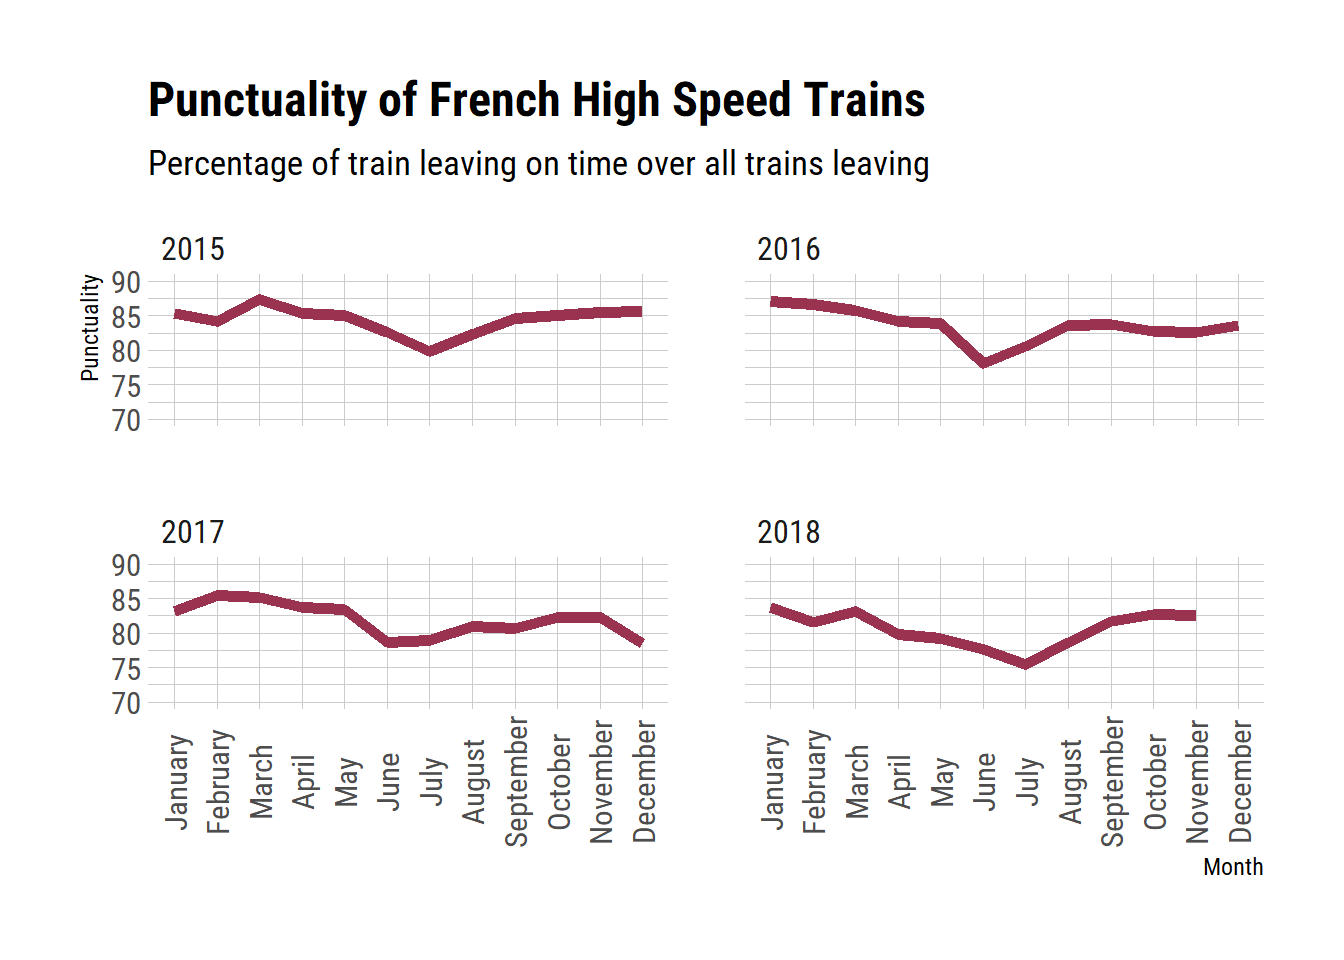
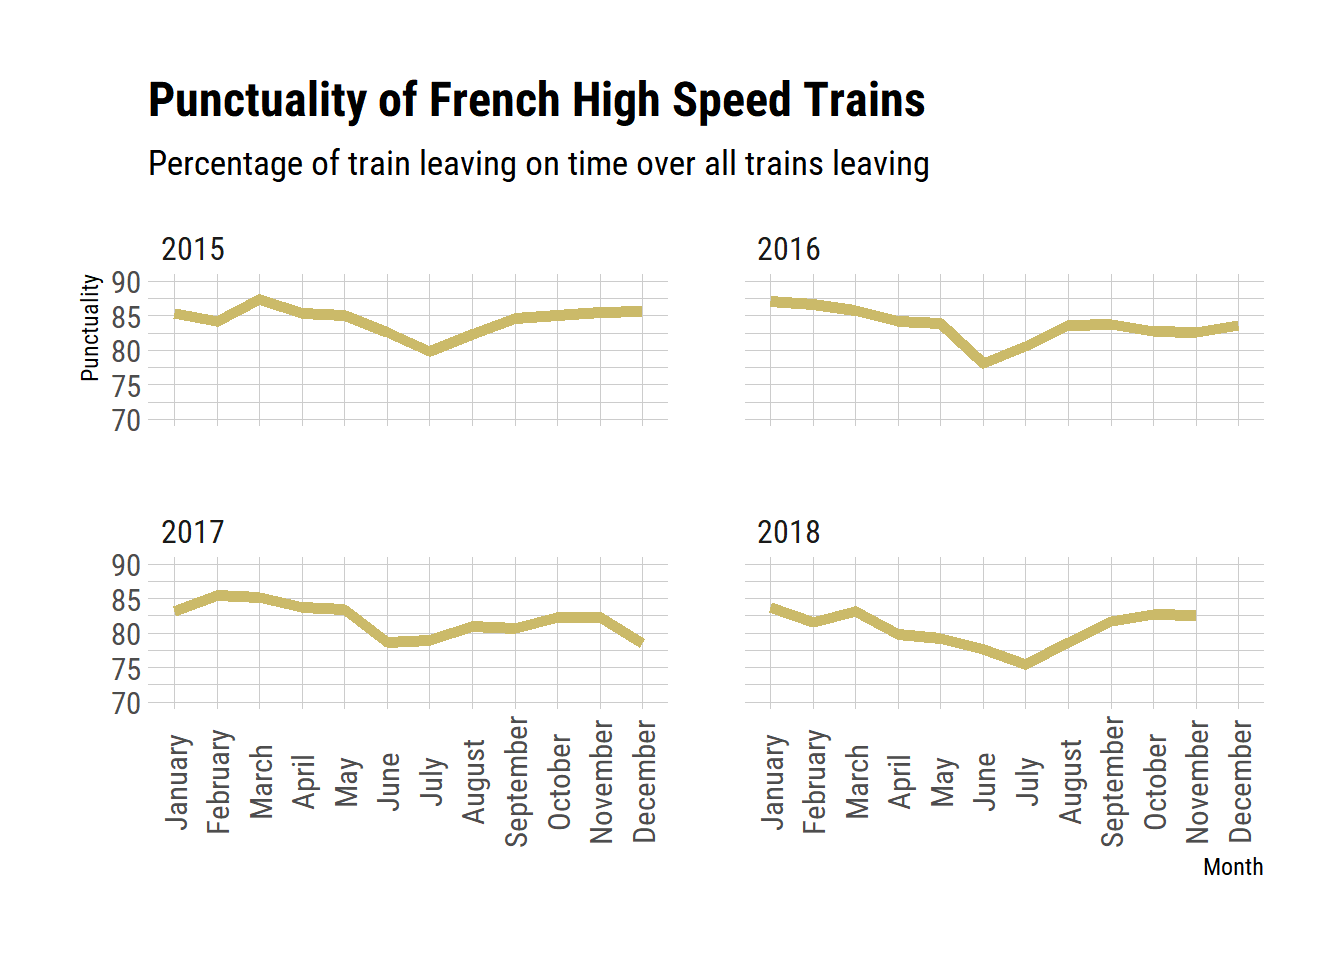
Clarify regularity explanation and improve colors of SNCF 1

diff --git a/content/content/post/2019-02-02-exploration-of-french-high-speed-trains-delays.html b/content/content/post/2019-02-02-exploration-of-french-high-speed-trains-delays.html
@@ -31,7 +31,7 @@ editor_options:
 - <code>axe</code>: which high speed line was concerned (see below for details),<br />
 - <code>month</code>: which month the data concerns,<br />
 - <code>departure_punctuality</code>: number of trains that left on time at their departure station, over all trains that left this station. Expressed in <em>percentage</em> of trains that departed <strong>that month</strong> and <strong>on this line</strong>,<br />
-- <code>composite_regularity</code>: this index is calculated by the SNCF, based on the number of delayed trains, but taking into account the length of the trip. A train is counted on-time if:<br />
+- <code>composite_regularity</code>: number of trains that arrived on time at arrival over all trains that arrived at arrival from that axe. Except that for this rate, te “on-time” criteria depends on trip lenght. A train is counted on-time if:<br />
 - for trips shorter than <strong>1h30</strong>: there is &lt;5min delay at arrival<br />
 - for trips between <strong>1h30</strong> and <strong>3h</strong>: there is &lt;10min delay at arrival<br />
 - for trips longer than <strong>3h</strong>: there is &lt;15min delay at arrival</p>
@@ -109,8 +109,7 @@ levels(tgv_axes$month_english) &lt;- c(&quot;January&quot;, &quot;February&quot;
   ggplot(aes(x = month_english, y = departure_punctuality,
              group = year)) +
   stat_summary(fun.y = mean, geom = &quot;line&quot;,
-               size = 2, colour = &quot;#993350&quot;) +
-  #geom_line(size = 2, color = &quot;#993350&quot;) +
+               size = 2, colour = &quot;#CBBA69FF&quot;) +
   facet_wrap(~year, nrow = 2) +
   labs(title = &quot;Punctuality of French High Speed Trains&quot;,
        subtitle = &quot;Percentage of train leaving on time over all trains leaving&quot;,
@@ -118,7 +117,8 @@ levels(tgv_axes$month_english) &lt;- c(&quot;January&quot;, &quot;February&quot;
        y = &quot;Punctuality&quot;) +
   theme_ipsum_rc() +
   ylim(70, 90) +
-  theme(axis.text.x = element_text(angle = 90, vjust = 0.5))</code></pre>
+  theme(axis.text.x = element_text(angle = 90, vjust = 0.5)) +
+  scale_colour_viridis_c()</code></pre>
 <p><img src="/content/post/2019-02-02-exploration-of-french-high-speed-trains-delays_files/figure-html/unnamed-chunk-3-1.png" width="672" /></p>
 <p>For some reason there is a peak of delay in June or July every year. Is this because a lot of people leave on holidays at this period? But then I would expect lots of problems in August or December, and these months do not seem to be much affected.</p>
 <p>Since time data is often readily plotted with heat-maps, I use the <code>geom_tile</code> geom from the <code>ggplot2</code> package to plot the punctuality over time</p>
@@ -144,10 +144,10 @@ levels(tgv_axes$month_english) &lt;- c(&quot;January&quot;, &quot;February&quot;
   ggplot(aes(x = month_english, group = year)) +
   stat_summary(aes(y = composite_regularity),
                fun.y = mean, geom = &quot;line&quot;,
-               size = 2, color = &quot;#90A437&quot;) +
+               size = 2, color = &quot;#31446BFF&quot;) +
   stat_summary(aes(y = departure_punctuality),
                fun.y = mean, geom = &quot;line&quot;,
-               size = 2, color = &quot;#993350&quot;) +
+               size = 2, color = &quot;#CBBA69FF&quot;) +
   facet_wrap(~year, nrow = 2) +
   labs(title = &quot;Regularity and punctuality of French High Speed Trains&quot;,
        subtitle = &quot;Green = regularity\nRed = punctuality&quot;,
@@ -159,7 +159,7 @@ levels(tgv_axes$month_english) &lt;- c(&quot;January&quot;, &quot;February&quot;
   theme(axis.text.x = element_text(angle = 90, vjust = 0.5))</code></pre>
 <p><img src="/content/post/2019-02-02-exploration-of-french-high-speed-trains-delays_files/figure-html/unnamed-chunk-4-1.png" width="672" /></p>
 <p>Both punctuality and regularity covary strongly. The main difference is that the regularity allow them to have seemingly higher rates of punctual trains, because it decreases the impact of delays up to 15 minutes on longer trips.</p>
-<p>Since both rates are similar, I will report only the punctuality from now on, because we know exactly how it is defined.</p>
+<p>Since both rates are similar, I will report only the punctuality from now on.</p>
 </div>
 </div>
 <div id="by-axes" class="section level1">
@@ -177,7 +177,7 @@ levels(tgv_axes$month_english) &lt;- c(&quot;January&quot;, &quot;February&quot;
                 ymax = mean_punctuality + sd_punctuality),
                 width = .2, size = 1) +
   
-  geom_bar(stat = &quot;identity&quot;, fill = &quot;#993350&quot;) +
+  geom_bar(stat = &quot;identity&quot;, fill = &quot;#CBBA69FF&quot;) +
   labs(title = &quot;Mean punctuality of French High Speed Trains per line&quot;,
        subtitle = &quot;Averaged over time&quot;,
        caption = &quot;Data: data.sncf.com\nError bars: standard-deviation&quot;,
